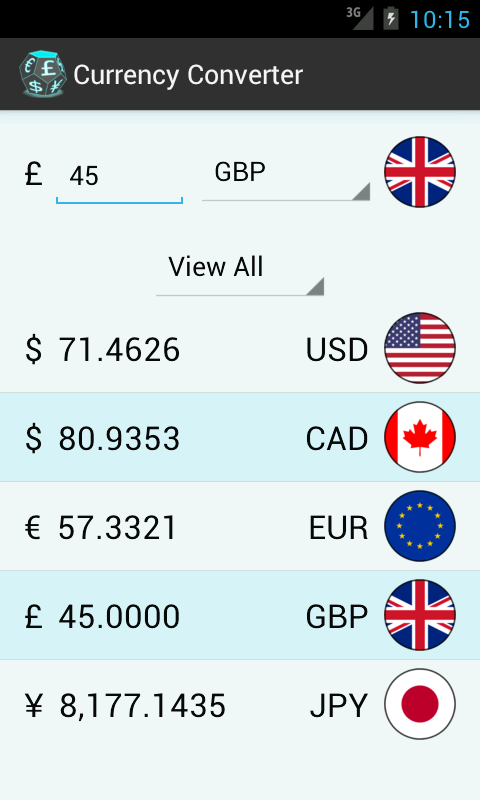
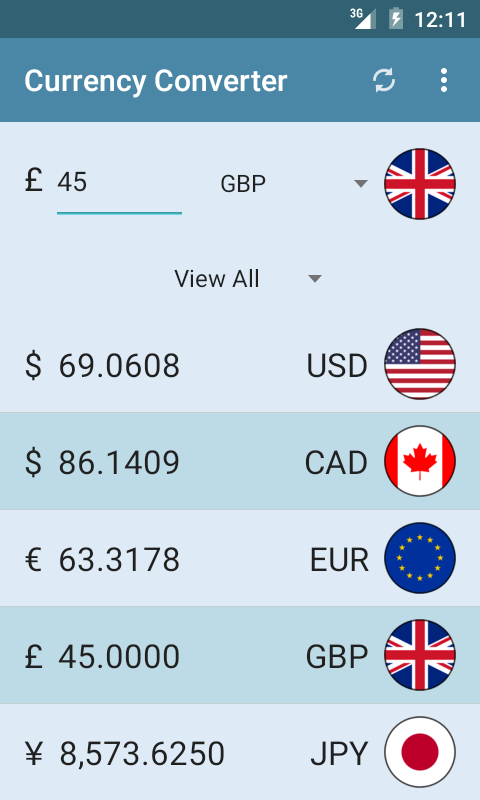
Pref patch, updated README, images, & versionCode for release
[Fix]: Last minute patch to the PreferenceUtil & MainActivity to ensure
preference migration goes smoothly from the old scheme to the new one.
[Fix]: Changed from margin to padding to ensure 720dp views rendered
correctly on 5.0.

[Mod]: Updated versionCode/name for next release

[Mod]: Crushed the refresh icon.
[Doc]: Added new screenshots. Updated the README to better describe the
project and show new screenshots.

diff --git a/src/com/ovrhere/android/currencyconverter/prefs/PreferenceUtils.java b/src/com/ovrhere/android/currencyconverter/prefs/PreferenceUtils.java
@@ -27,35 +27,53 @@ import com.ovrhere.android.currencyconverter.R;
  * Has ability to set defaults. Requires <code>preference_info.xml</code> and
  * <code>preference_defaults.xml</code>.
  * @author Jason J.
- * @version 0.6.0-2010525
+ * @version 0.7.0-2010528
  */
 public class PreferenceUtils {
 	/* The class name. */
 	//final static private String CLASS_NAME = PreferenceUtils.class.getSimpleName();	
 	/** The key for the first run/preferences set pref. */
+	@Deprecated
 	final static protected String KEY_PREFERENCES_SET = "com.ovrhere.currConv.KEY_FIRST_RUN";
 	/** The pref value for the first run/preferences set . 
 	 * @see {@link #KEY_PREFERENCES_SET} */
+	@Deprecated
 	final static protected boolean VALUE_PREFERENCES_SET	 = true;
 	
-	/** Used to determine if {@link #resetToDefault(Context)} has been called before.
+	/**
+	 * Used to initialise preferences on the first run. Call in your MainActivity
+	 * @param context The activity context.
+	 */
+	static public void initPreferences(Context context){
+		SharedPreferences prefs = PreferenceManager.getDefaultSharedPreferences(context);
+		//if empty, this must be the first run.
+		boolean isFirstRun = prefs.getAll().isEmpty();
+		
+		if (isFirstRun) { //if indeed first run, set to defaults and transfer any settings
+			resetToDefault(context); 
+			checkAndTransferOldToNew(context, prefs);
+		}
+	}
+	
+	/** Used to determine if {@link #resetToDefault(Context)} or {@link #initPreferences(Context)}
+	 * has been called before.
 	 * @param context The current context.
 	 * @return <code>true</code> only on the first run, <code>false</code> otherwise.
 	 */
 	static public boolean isFirstRun(Context context){
 		SharedPreferences prefs = PreferenceManager.getDefaultSharedPreferences(context);
-		
-		//set any missing preferences if not set, ignores the rest
-		boolean isFirstRun = (prefs.getBoolean(KEY_PREFERENCES_SET, !VALUE_PREFERENCES_SET) 
-				== !VALUE_PREFERENCES_SET);
-		
-		if (isFirstRun == false) {
-			SharedPreferences oldPrefs = getOldPreferences(context);
-			checkAndTransferOldToNew(oldPrefs, prefs, context);
-		}
-				
-		//if the default value not set, then true.
-		return isFirstRun;
+		return prefs.getAll().isEmpty();
+	}
+
+	
+	/** <b>Clears</b> and resets application's preferences to the default values. 
+	 * @param context The current context to be used. 
+	 * @see res/values/preferences_info.xml */
+	static public void resetToDefault(Context context){
+		SharedPreferences.Editor edit = PreferenceManager.getDefaultSharedPreferences(context)
+											.edit();
+		edit.clear().commit();		
+		PreferenceManager.setDefaultValues(context, R.xml.preference_defaults, true);
 	}
 	
 	/** 
@@ -69,18 +87,6 @@ public class PreferenceUtils {
 		return context.getSharedPreferences(
 				context.getResources().getString(R.string.preferenceutil_OLDPREFERENCE_FILE_KEY), 
 				Context.MODE_PRIVATE); 
-	}
-	
-	/** <b>Clears</b> and resets application's preferences to the default values. 
-	 * @param context The current context to be used. 
-	 * @see res/values/preferences_info.xml */
-	static public void resetToDefault(Context context){
-		SharedPreferences.Editor edit = PreferenceManager.getDefaultSharedPreferences(context)
-											.edit();
-		edit.clear().commit();		
-		PreferenceManager.setDefaultValues(context, R.xml.preference_defaults, true);	
-		
-		edit.putBoolean(KEY_PREFERENCES_SET, VALUE_PREFERENCES_SET).commit();
 	}
 	
 	////////////////////////////////////////////////////////////////////////////////////////////////
@@ -150,17 +156,20 @@ public class PreferenceUtils {
 	
 	/**
 	 * Checks if old preferences exists and migrates them to the new one, if they do.
-	 * @param oldPrefs
-	 * @param newPrefs
 	 * @param context
+	 * @param newPrefs
+	 * @return <code>true</code> if old preferences were transfered, <code>false</code>
+	 * if they were not (i.e. no previous runs).
 	 */
-	private static void checkAndTransferOldToNew(SharedPreferences oldPrefs, 
-			SharedPreferences newPrefs, Context context) {
-		boolean oldPrefsExist = (oldPrefs.getBoolean(KEY_PREFERENCES_SET, !VALUE_PREFERENCES_SET) == VALUE_PREFERENCES_SET);
-		
-		if (!oldPrefsExist) {
-			return; //if the older preferences do not exist, exit.
+	private static boolean checkAndTransferOldToNew(Context context, SharedPreferences newPrefs) {
+		final SharedPreferences oldPrefs = getOldPreferences(context);
+		boolean oldPrefsNotSet = oldPrefs.getAll().isEmpty();
+				
+		//Toast.makeText(context, "oldPrefsNotSet: " + oldPrefsNotSet, Toast.LENGTH_LONG).show();
+		if (oldPrefsNotSet) {			
+			return false; //if the older preferences do not exist, exit.
 		} //otherwise, transfer them.
+		
 		
 		Resources res = context.getResources();
 		SharedPreferences.Editor prefs = newPrefs.edit();
@@ -179,8 +188,15 @@ public class PreferenceUtils {
 				""+oldPrefs.getInt(res.getString(R.string.currConv_pref_OLDKEY_UPDATE_CURRENCY_INTERVAL), 0)
 		);
 		
-		oldPrefs.edit().clear().commit();		
+		prefs.putBoolean(
+				res.getString(R.string.currConv_pref_KEY_USE_JSON_REQUEST),
+				oldPrefs.getBoolean(res.getString(R.string.currConv_pref_KEY_USE_JSON_REQUEST), true)
+		);
+		
 		prefs.commit();
+		oldPrefs.edit().clear().commit();
+		
+		return true;
 	}
 
 }

diff --git a/src/com/ovrhere/android/currencyconverter/ui/MainActivity.java b/src/com/ovrhere/android/currencyconverter/ui/MainActivity.java
@@ -28,18 +28,17 @@ import com.ovrhere.android.currencyconverter.prefs.PreferenceUtils;
 
 /** The main activity.
  * @author Jason J.
- * @version 0.2.0-20150526
+ * @version 0.2.1-20150528
  */
 public class MainActivity extends ActionBarActivity  {
 	
 	@Override
 	protected void onCreate(Bundle savedInstanceState) {
 		super.onCreate(savedInstanceState);
+		//Do before view is built so that spinners display correctly.
+		PreferenceUtils.initPreferences(this);
+		
 		setContentView(R.layout.activity_main);
-
-		if (PreferenceUtils.isFirstRun(this)) { //TODO move to activity
-			PreferenceUtils.resetToDefault(this);
-		}
 		
 		if (getSupportActionBar() != null){ //make actionbar flat
 			getSupportActionBar().setElevation(0.0f);

diff --git a/README.md b/README.md
@@ -2,14 +2,16 @@
 
 #Currency Converter  [<span style=""><img src="./ic_launcher-web.png?raw=true" title="Get 'Currency Converter' on Google Play" height="50" width="50" style="padding-right: 15px; padding-left: 15px;height: 50px;" /> <img src="./screenshots/get_on_play_45.png?raw=true" title="Get 'Currency Converter' on Google Play" /></span>](https://play.google.com/store/apps/details?id=com.ovrhere.android.currencyconverter)
 
-This app is intended to be a utility for converting between multiple currencies. Supports 5 currencies.
+This is a demo app is intended to be a utility for converting between multiple currencies. Supports 5 currencies.
 
 
 ###Notes
 
-The app supports **Android 2.3.3** and up, with enhanced support for tablet & small screens. It is currently an open beta release. 
+The app supports **Android 2.3.3** and up, with enhanced support for tablet & small screens, and retro-fitted to support Material Design. It is design to small, simple, and to only fetch fresh data when open. 
 
-Application requires the Android v7 compatibility library & the unoffical [preference fragment library](https://github.com/kolavar/android-support-v4-preferencefragment "android-support-v4-preferencefragment by Kolavar"). Uses resources from [Android Holo Colors Generator](http://android-holo-colors.com/ "Android Holo Colors Generator").
+It is currently an open beta release. 
+
+Building requires the Android v7 compatibility library (build 22), the unoffical [preference fragment library (2015-05-13 build)](https://github.com/kolavar/android-support-v4-preferencefragment "android-support-v4-preferencefragment by Kolavar") & GSON library. 
 
 Currently converts between:
 
@@ -19,21 +21,21 @@ Currently converts between:
 * GBP (Great British Pound)
 * JPY (Japanese Yen)
 
-Makes use of the Yahoo currency api, currently via XML parsing. All exchange rates are stored offline for future use. Context menu support allows copying of the results.
+Makes use of the Yahoo currency api, via JSON and XML stream parsing. All exchange rates are stored offline for future use. Context menu support allows copying of the results.
+
+Demonstrates the use of Unit testing, `ContentProvider`s, `SQLite`, `AsyncTaskLoader`s, `SharedPreferences`, `Animation`s, stream parsing, `Fragment`s, multiple layouts, external libraries, etc.
 
 All graphics are done in a combination of GIMP & Inkscape.
 
 
 ###Screenshots
 
-<img src="./screenshots/currconv_screenshot0.png?raw=true" title="Screenshot of Canadian currency being converted on Gingerbread"  width="250"/> <img src="./screenshots/currconv_screenshot1.png?raw=true" title="Screenshot of context menu"  width="250"/> 
+<img src="./screenshots/currconv_screenshot0.png?raw=true" title="Screenshot of Great British Pounds being converted on Lolipop"  width="250"/> <img src="./screenshots/currconv_screenshot1.png?raw=true" title="Screenshot of context menu"  width="250"/> 
 
 
-<img src="./screenshots/currconv_screenshot2.png?raw=true" title="Screenshot of EUR  being converted on Icecream Sandwich"  width="250"/>  <img src="./screenshots/currconv_screenshot3.png?raw=true" title="Screenshot of when it cannot update"  width="250"/>
+<img src="./screenshots/currconv_screenshot2.png?raw=true" title="Screenshot of EUR when it cannot update."  width="250"/>  <img src="./screenshots/currconv_screenshot3.png?raw=true" title="Screenshot of smaller resolutions"  width="250"/>
 
-<img src="./screenshots/currconv_screenshot4.png?raw=true" title="Screenshot of smaller resolutions"  width="250"/>
-
-<img src="./screenshots/currconv_screenshot5_tablet.png?raw=true" title="Screenshot of tablet view"  width="500"/>
+<img src="./screenshots/currconv_screenshot4_tablet.png?raw=true" title="Screenshot of tablet view"  width="500"/>
 
 
 
@@ -42,7 +44,7 @@ All graphics are done in a combination of GIMP & Inkscape.
 ***
 ####[Apache License v2](./blob/master/LICENSE.md)
 
-   Copyright 2014 Jason J.
+   Copyright 2015 Jason J. (iamovrhere)
 
    Licensed under the Apache License, Version 2.0 (the "License");
    you may not use this file except in compliance with the License.
